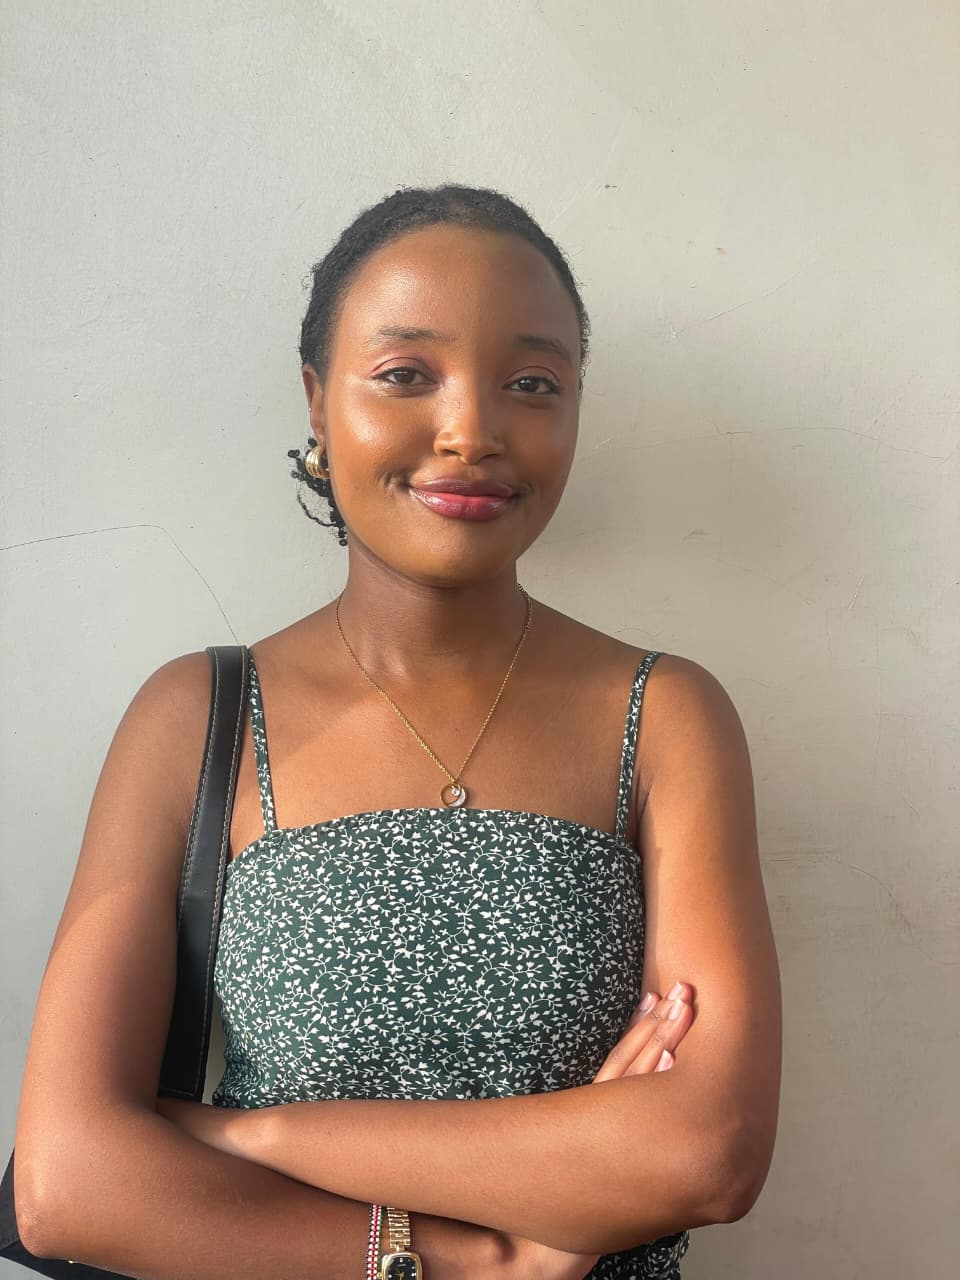
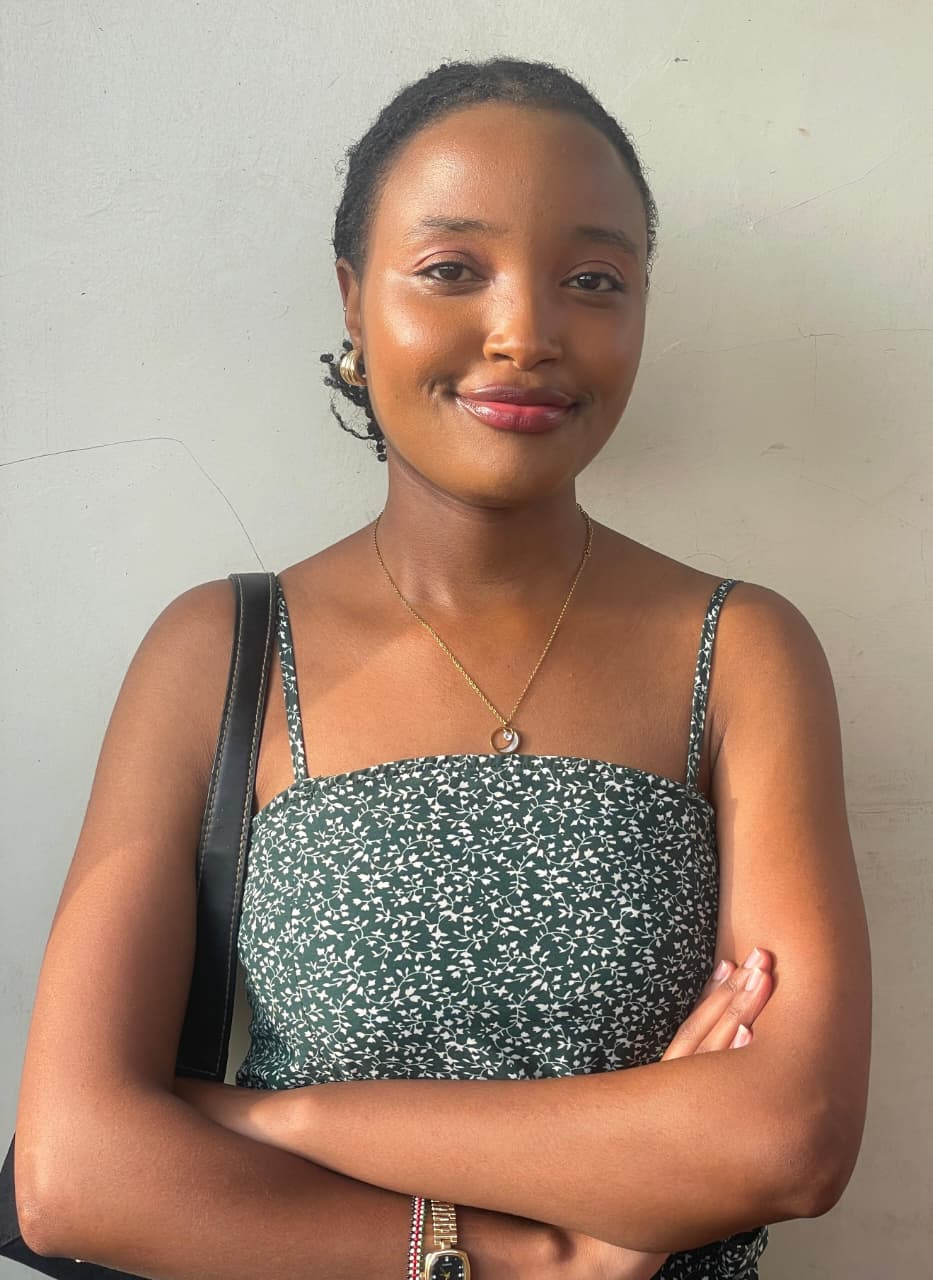
Update team page with correct links, update homepage and submit page

diff --git a/src/routes/team/+page.svelte b/src/routes/team/+page.svelte
@@ -6,9 +6,9 @@
             role: "Founder",
             email: "sharongatugi@policybridgeke.org",
             bio: "Visionary leader dedicated to bridging the gap between policy research and practical implementation. Sharon founded PolicyBridge KE with a mission to make policy engagement accessible and impactful for all Kenyans.",
-            photo: "/images/team/sharon-gatugi.jpg", // Replace with actual photo path
-            linkedin: "https://www.linkedin.com/in/sharongatugi", // Replace with actual LinkedIn URL
-            website: "https://sharongatugi.com", // Replace with actual website URL
+            photo: "/images/team/sharon-gatugi.jpeg",
+            linkedin: null,
+            website: "https://ga2gi.github.io/sharongikundi.github.io/",
             expertise: ["Policy Development", "Strategic Leadership", "Civic Engagement"],
             initials: "SG"
         },
@@ -17,9 +17,9 @@
             role: "Co-Founder",
             email: "kensonmutethia@policybridgeke.org",
             bio: "Co-founded PolicyBridge KE, bringing legal expertise and policy analysis to the team. As an Advocate of the High Court of Kenya, Kenson specializes in constitutional law, governance, and policy formulation with a focus on creating sustainable social impact.",
-            photo: "/images/team/kenson-mutethia.jpg", // Replace with actual photo path
-            linkedin: "https://www.linkedin.com/in/kensonmutethia", // Replace with actual LinkedIn URL
-            website: "https://kensonmutethia.advocate", // Replace with actual website URL
+            photo: "/images/team/kenson-mutethia.jpeg",
+            linkedin: "https://www.linkedin.com/in/kenson-mutethia-7605a4232?utm_source=share_via&utm_content=profile&utm_medium=member_ios",
+            website: null,
             expertise: ["Constitutional Law", "Policy Analysis", "Legal Advocacy", "Governance"],
             initials: "KM"
         }
@@ -52,7 +52,7 @@
                         <!-- Photo Section -->
                         <div class="member-photo-section">
                             {#if member.photo}
-                                <img src={member.photo} alt="{member.name}" class="profile-photo" />
+                                <img src={member.photo} alt={member.name} class="profile-photo" />
                             {:else}
                                 <div class="photo-placeholder">
                                     <span class="initials">{member.initials}</span>
@@ -235,13 +235,16 @@
     }
 
     .profile-photo {
-        width: 120px;
-        height: 120px;
+        width: 150px;
+        height: 150px;
         border-radius: 50%;
-        object-fit: cover;
+        object-fit: contain;
+        object-position: center;
+        background: white;
         border: 4px solid white;
         box-shadow: 0 4px 12px rgba(0, 0, 0, 0.1);
         transition: all 0.3s ease;
+        padding: 8px;
     }
 
     .team-card:hover .profile-photo {
@@ -250,8 +253,8 @@
     }
 
     .photo-placeholder {
-        width: 120px;
-        height: 120px;
+        width: 150px;
+        height: 150px;
         border-radius: 50%;
         background: linear-gradient(135deg, #064e3b 0%, #047857 100%);
         display: flex;
@@ -262,7 +265,7 @@
     }
 
     .initials {
-        font-size: 2rem;
+        font-size: 2.5rem;
         font-weight: 700;
         color: white;
         letter-spacing: 1px;
@@ -448,12 +451,12 @@
         
         .profile-photo,
         .photo-placeholder {
-            width: 100px;
-            height: 100px;
+            width: 120px;
+            height: 120px;
         }
         
         .initials {
-            font-size: 1.5rem;
+            font-size: 2rem;
         }
         
         .member-info {
@@ -496,12 +499,12 @@
         
         .profile-photo,
         .photo-placeholder {
-            width: 80px;
-            height: 80px;
+            width: 100px;
+            height: 100px;
         }
         
         .initials {
-            font-size: 1.2rem;
+            font-size: 1.5rem;
         }
     }
 </style>

diff --git a/src/routes/+page.svelte b/src/routes/+page.svelte
@@ -3,8 +3,8 @@
     export let data;
     
     const metrics = {
-        publishedBriefs: 1,
-        liveChallenges: 6,
+        publishedBriefs: 2,
+        liveChallenges: 5,
         communityMembers: "120+"
     };
 
@@ -86,8 +86,8 @@
         <div class="container">
             <div class="featured-card">
                 <span class="featured-label">Latest Policy Publication</span>
-                <h3>Unlocking Kenya's Youth Access to Capital</h3>
-                <p>A youth-developed strategic framework addressing the KES 500B financing gap via a Five-Pillar reform strategy.</p>
+                <h3>Youth Mental Health in Kenya: From Listening to Implementation</h3>
+                <p>A youth-led framework for accessible, affordable and youth-friendly mental-health support. Based on a National Youth Consultation across 20 counties, this brief proposes a Four-Pillar reform strategy to address Kenya's growing mental health crisis.</p>
                 <a href="/briefs" class="featured-link">View Policy Brief →</a>
             </div>
         </div>
@@ -105,8 +105,8 @@
             <div class="metrics-grid">
                 <div class="metric-card">
                     <span class="metric-value">{metrics.publishedBriefs}</span>
-                    <span class="metric-label">Policy Brief Published</span>
-                    <p class="metric-desc">Youth Access to Capital Framework</p>
+                    <span class="metric-label">Policy Briefs Published</span>
+                    <p class="metric-desc">Youth Mental Health & Access to Capital</p>
                 </div>
                 <div class="metric-card dark">
                     <span class="metric-value">{metrics.liveChallenges}</span>

diff --git a/src/routes/submit/+page.svelte b/src/routes/submit/+page.svelte
@@ -130,7 +130,9 @@
             ],
             sdg: "SDG 3: Good Health | SDG 10: Reduced Inequalities",
             vision2030: "Social Pillar: Health access | Governance Pillar: Decentralized services",
-            submissionGuide: "Focus on: (1) Mechanisms for ward-level funds, (2) Mental health in primary care and schools, (3) Community models that reduce stigma."
+            submissionGuide: "Focus on: (1) Mechanisms for ward-level funds, (2) Mental health in primary care and schools, (3) Community models that reduce stigma.",
+            highlights: "Policy brief published August 2026: 'Youth Mental Health in Kenya: From Listening to Implementation.' Four-Pillar framework with ward-level integration, education access points, community safe spaces, and digital support.",
+            status: "Closed"
         },
         "youth access to capital": {
             ref: "PL-ECO-001",
@@ -146,7 +148,7 @@
             ],
             sdg: "SDG 1: No Poverty | SDG 8: Decent Work",
             vision2030: "Economic Pillar: MSME development | Social Pillar: Youth employment",
-            highlights: "Policy brief submitted to multiple stakeholders. Live accountability tracking available.",
+            highlights: "Policy brief published April 2026: 'Unlocking Kenya's Youth Access to Capital: A Five-Pillar Reform Framework.' Policy brief submitted to multiple stakeholders. Live accountability tracking available.",
             status: "Closed"
         }
     };
